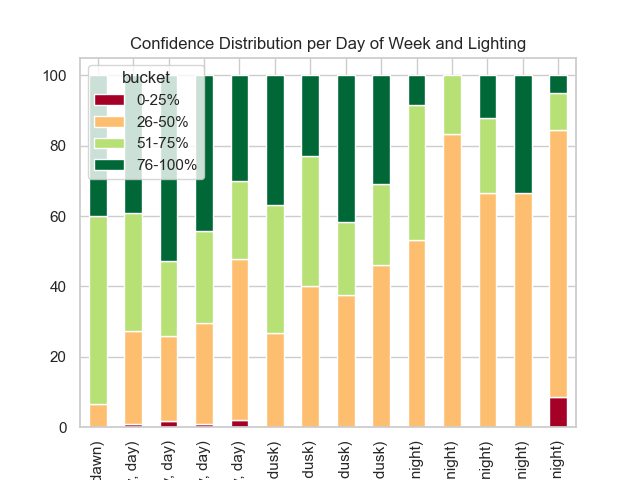
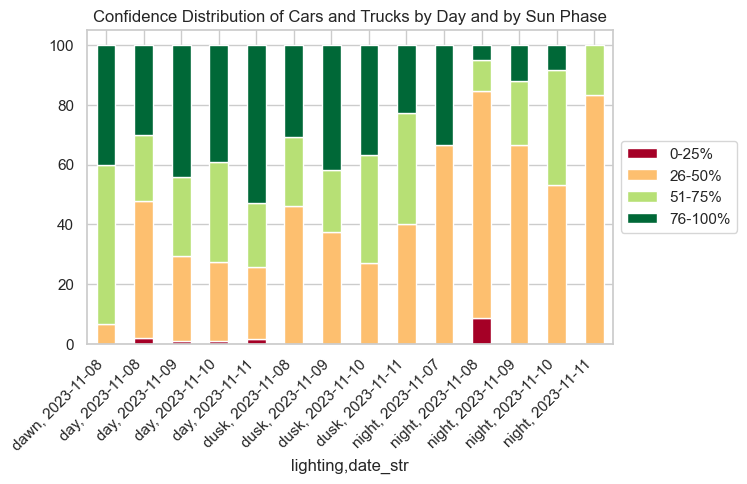
bar chart v1

diff --git a/scripts/detect_objects.py b/scripts/detect_objects.py
@@ -210,7 +210,6 @@ for object_name, outputs in object_dict.items():
                         bucket = '76-100%'
                     confidence_buckets[bucket].append(
                         (output['lighting'], output['datetime'], output['camera_name'], output['image_file'].split('/')[-1].split('.')[0]))
-
 # Create a dictionary to store the count of each bucket per day
 bucket_counts_per_day = {}
 for bucket, data in confidence_buckets.items():
@@ -218,14 +217,17 @@ for bucket, data in confidence_buckets.items():
         data, columns=['lighting', 'datetime', 'camera_name', 'image_filename'])
     df['date'] = pd.to_datetime(df['datetime'])
     df['day_of_week'] = df['date'].dt.day_name()
+    # Add date in unixtime for sorting later
+    df['date_str'] = df['date'].dt.strftime('%Y-%m-%d')
     df.set_index('day_of_week', inplace=True)
-    bucket_counts = df.groupby(['day_of_week', 'lighting']).size()
+    bucket_counts = df.groupby(['day_of_week', 'date_str', 'lighting']).size()
     bucket_counts_per_day[bucket] = bucket_counts
 
 bucket_counts_df = pd.DataFrame(bucket_counts_per_day)
 bucket_counts_df = bucket_counts_df.fillna(0)
 bucket_counts_df = bucket_counts_df.stack().reset_index()
-bucket_counts_df.columns = ['day_of_week', 'lighting', 'bucket', 'count']
+bucket_counts_df.columns = ['day_of_week', 'date_str',
+                            'lighting', 'bucket', 'count']
 
 # Calculate the total count for each day_of_week and lighting
 total_counts = bucket_counts_df.groupby(['day_of_week', 'lighting'])[
@@ -240,25 +242,30 @@ bucket_counts_df = pd.merge(bucket_counts_df, total_counts, on=[
 bucket_counts_df['percentage'] = bucket_counts_df['count'] / \
     bucket_counts_df['total'] * 100
 
+bucket_counts_df = bucket_counts_df[bucket_counts_df['day_of_week']
+                                    != '2023-11-11']
+
+
 sns.set(style="whitegrid")
 if 'percentage' in bucket_counts_df.columns:
     # Pivot the dataframe to create a 100% stacked bar chart
     pivot_df = bucket_counts_df.pivot_table(
-        index=['day_of_week', 'lighting'], columns='bucket', values='percentage')
+        index=['lighting', 'date_str'], columns='bucket', values='percentage')
     pivot_df = pivot_df.div(pivot_df.sum(axis=1), axis=0).multiply(100)
-    # Sort the dataframe by lighting
-    pivot_df = pivot_df.sort_values(by='lighting')
-
-    # Group the bar charts by lighting with horizontal spacing
-    unique_lighting = pivot_df.index.get_level_values('lighting').unique()
-    for i, lighting in enumerate(unique_lighting):
-        plt.figure(i)
-        df_lighting = pivot_df.xs(lighting, level='lighting')
-        df_lighting.plot(kind='bar', stacked=True, colormap='RdYlGn')
-        plt.title(
-            f'Confidence Distribution per Day of Week and Lighting ({lighting})')
-        plt.savefig(
-            f'Confidence_Distribution_per_Day_of_Week_and_Lighting_{lighting}.png')
+    # Sort the dataframe by date_str and lighting
+    # pivot_df = pivot_df.sort_values(by=['date_str', 'lighting'])
+    plot = pivot_df.plot(kind='bar', stacked=True, colormap='RdYlGn')
+    # Rotate x-axis labels for better visibility and adjust for auto-fit
+    labels = bucket_counts_df['lighting'] + ', ' + bucket_counts_df['date_str']
+    sorted_labels = sorted(labels.unique())
+    plt.xticks(ticks=range(len(sorted_labels)),
+               rotation=45, ha='right', labels=sorted_labels)
+    plt.tight_layout()
+    # Move the legend outside the plot
+    plt.legend(loc='center left', bbox_to_anchor=(1, 0.5))
 else:
     print("Error: 'percentage' column not found in the dataframe.")
+plt.title('Confidence Distribution of Cars and Trucks by Day and by Sun Phase')
+plt.savefig('Confidence_Distribution_per_Day_of_Week_and_Lighting.png',
+            bbox_inches='tight')
 plt.close()
